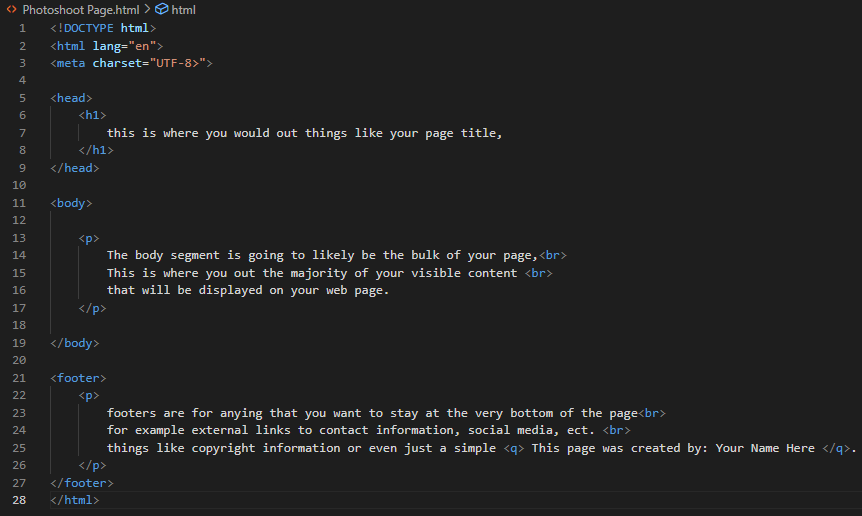
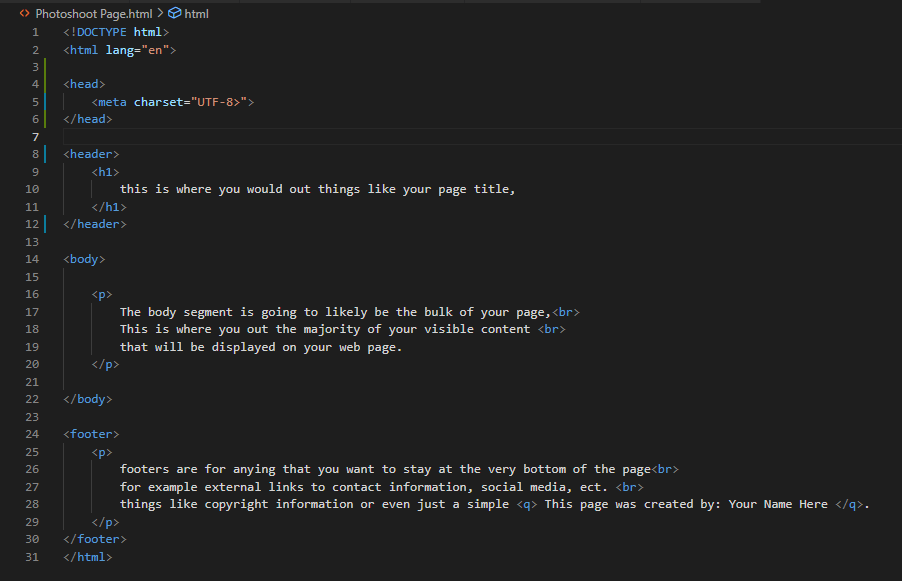
2-15-2022, page adds
added in HTML_Basics_2.html to begin developing that page, made more progress on the tag list, and replaced a screenshot image in Basics.html to reflect correct page layout.

Changed region(s): [[0.0, 0.0, 0.9954, 0.9922], [0.6334, 0.4651, 0.6636, 0.4961]]

diff --git a/taglist.html b/taglist.html
@@ -72,10 +72,21 @@
                     &lt;a&gt;
                 </td>
                 <td>
-                    Defines a hyperlink, ex. &lt;a href="www.google.com"&gt;
+                    Defines a hyperlink, ex. &lt;a href="www.google.com"&gt; 
+                    <br>
+                    This tag is most often used in conjuntion with the &lt;href=""&gt; tag.
                 </td>
                 <td>
                     <a href="www.google.com">Google</a>
+                    <br>
+                    <p>Note: by default a hyperlink will open in the tab you are currently in unless you add target="blank" after href="". adding a blank target will cause the hyperlink to open in a new tab.</p>
+                    <p>For general security reasons it is best to add rel="noopener noreferrer" if your going to have a blank target. The sytax for a hyperlink that openes in a new tab or window (in this example I am using www.google.com as the page the hyperlink will open) is as follows: </p>
+                    <p>
+                        &lt;a href="www.google.com" target="blank" rel="noopener noreferrer"&gt; 
+                        <br>
+                        <br>
+                        for more information on why you should do this chek out this artice <a href="https://www.jitbit.com/alexblog/256-targetblank---the-most-underestimated-vulnerability-ever/" target="blank" rel="noopener norferrer">here.</a> There will also be a reference page asigned to this topic in the future. 
+                    </p>
                 </td>
             </tr>
 
@@ -428,6 +439,255 @@
                     <dfn>Oak</dfn> has many sub species, some are used for <dfn>cooperage</dfn> while others are more suitable to general bulding materials. 
                 </td>
             </tr>
+
+            <tr>
+                <td>
+                    &lt;dialog&gt;
+                </td>
+                <td>
+                    creates a dialog box
+                </td>
+                <td>
+                    <p>
+                        blah blah blah
+                    </p>
+                    <p>
+                           <dialog open>this is an open dialog window <br> Why it does not stay within the confines of a table cell IDK. <br> this sort of effect can be acheived with better results using CSS</dialog>
+                        i am at a loss for creative words right now
+                    </p>
+                    <p>
+                        some more random words.
+                    </p>
+                 
+                </td>
+            </tr>
+
+            <tr>
+                <td>
+                    &lt;div&gt;
+                </td>
+                <td>
+                    defines a section of a document. 
+                </td>
+                <td>
+                    the &lt;div&gt; element is mostly just used mostly to define sections of a page that dont fall intp the category of head, body, or foot.
+                    you can technically replace head, body and foot with &lt;div&gt; elements but thats sloppy and not recomended. 
+                </td>
+            </tr>
+        <tr>
+            <td>
+                &lt;dl&gt;
+            </td>
+            <td>
+                defines a decription list, it is used inconjunction with dd and dt. &lt;dl&gt; defines that there is a description list, &lt;dt&gt; defines the lements of that list, and &lt;dd&gt; defines the value of those elements in the list. 
+            </td>
+            <td>
+                <dl>
+                    <dt>item 1</dt>
+                    <dt>item 2</dt>
+                    <dt>item 4</dt>
+                </dl>
+            </td>
+        </tr>
+
+        <tr>
+            <td>
+                &lt;dt&gt;
+            </td>
+            <td>
+                defines a term/name in a description list, 
+            </td>
+            <td>
+                see above example under the dl&gt; tag.
+            </td>
+        </tr>
+
+        <tr>
+            <td>
+                &lt;em&gt; 
+            </td>
+            <td>
+                Empasizes text
+            </td>
+            <td>
+                <em> this text in emphasized.</em>
+            </td>
+        </tr>
+
+        <tr>
+            <td>
+                &lt;embed&gl;
+            </td>
+            <td>
+                defines a container for an external embeded application
+            </td>
+            <td>
+                i dont havre an example for this one yet. Check out the link on W3 Schools for more information
+            </td>
+        </tr>
+        
+        <tr>
+            <td>
+                &lt;fieldset&gt;
+            </td>
+            <td>
+                goups related elements in a form
+            </td>
+            <td>
+                <blockquote cite="https://www.w3schools.com/TAGS/tryit.asp?filename=tryhtml_fieldset">
+
+                    <form action="/action_page.php">
+                        <fieldset>
+                            <legend>Personalia:</legend>
+                            <label for="fname">First name:</label>
+                                <input type="text" id="fname" name="fname">
+                                <br><br>
+                            <label for="lname">Last name:</label>
+                                <input type="text" id="lname" name="lname">
+                                <br><br>
+                            <label for="email">Email:</label>
+                                <input type="email" id="email" name="email">
+                                <br><br>
+                            <label for="birthday">Birthday:</label>
+                                <input type="date" id="birthday" name="birthday">
+                                <br><br>
+                            <input type="submit" value="Submit">
+                        </fieldset>
+                    </form>
+
+                </blockquote>
+            </td>
+        </tr>
+
+        <tr>
+            <td>
+                &lt;figcaption&gt; 
+            </td>
+            <td>
+                defines a caption for a figure element.
+            </td>
+            <td>
+                <figure>
+                    <img src="Bunny_1.png" width="50px" height="50px">
+                    <figcaption>Fig. 1 - A "bunny" or rabbit, drawing</figcaption>
+                </figure>
+                view page source for more detailed info. 
+            </td>
+        </tr>
+
+        <tr>
+            <td>
+                &lt;figure&gt;
+            </td>
+            <td>
+                specifies self cintained cintent. typically used for images and examples
+            </td>
+            <td>
+                view page source for &lt;figcaption&gt; for an example
+            </td>
+        </tr>
+
+        <tr>
+            <td>
+                &lt;footer&gt; 
+            </td>
+            <td>
+                Defines the foot of a document or section. Typically this section is used to place infomation that is intended to stay at the bottom of the page. 
+            </td>
+            <td>
+                view page source and scroll all the way to the bottom, thats where the footer is. 
+            </td>
+        </tr>
+
+        <tr>
+            <td>
+                &lt;form&gt;
+            </td>
+            <td>
+                Defines an HTML form for users to input data. 
+            </td>
+            <td>
+                <form action=""> <!--note that action is left blank here. Normally this is where you place the information for either an external php server or any other destination for where the information collected will go to be processed.-->
+                    <label for="fname">First Name</label>
+                        <input type="text" id="fname">
+                        <br><br>
+                    <label for="lname">Last Name</label>
+                        <input type="text" id="lname">
+                        <br><br>
+                    <label for="fcolor">Favorite Color</label>
+                        <input type="text" id="fcolor">
+                        <br><br>
+                        <input type="submit" value="submit">
+                </form>
+                <br>
+                see also the &lt;fieldset&gt; tag for another example of how these types of inputs work. 
+            </td>
+        </tr>
+
+        <tr>
+            <td>
+                &lt;h1&gt;<br>
+                &lt;h2&gt;<br>
+                &lt;h3&gt;<br>
+                &lt;h4&gt;<br>
+                &lt;h5&gt;<br>
+                &lt;h6&gt; 
+            </td>
+            <td>
+                Header Tags, these are used for formatting headline/headers in your HTML document. This is one of those things that search engines will look at for key words.
+                Each tag has a different level of sognificance assigned to it, with &lt;h1&gt; being the most significant and &lt;h6&gt; being the least significant. 
+            </td>
+            <td>
+                <p>Styntax and default formatting examples of &lt;h1&gt; through &lt;h6&gt;</p>
+                <h1>This is Header 1</h1>
+                <h2>This is Header 2</h2>
+                <h3>This is header 3</h3>
+                <h4>This is Header 4</h4>
+                <h5>This is Header 5</h5>
+                <h6>This is header 6</h6>
+            </td>
+        </tr>
+
+        <tr>
+            <td>
+                &lt;head&gt;
+            </td>
+            <td>
+                The &lt;head&gt; tag is not to be confused with the &lt;header&gt; tag, they both serve a different purpose. &lt;head&gt; tags are used to define the head of an HTML document, this is where metadata and other information such as links to external css and JS pages that apply to the entire document can be found.
+                <br>
+                <i>Note: Each HTML document only has one &lt;head&gt; section. </i>
+            </td>
+            <td>
+                For an example of this tags syntax and use view the page source and look at the very top of the page. This item is also explained in more detail in the <a href="Basics.html" target="blank" rel="noopener noreferrer">HTML Basics</a> page.
+            </td>
+        </tr>
+
+        <tr>
+            <td>
+                &lt;header&gt;
+            </td>
+            <td>
+                The &lt;header&gt; tag is used to define the Header for a document or section. Unlike the &lt;head&gt; tag, you can have multiple headers, just like you can have multiple bodies and footers. 
+            </td>
+            <td>
+                This will be desplayed in more detail in the <a href="HTML_Basics_2.html" target="blank" rel="noopener noreferrer">HTML Basics 2</a> Page.
+            </td>
+        </tr>
+
+        <tr>
+            <td>
+                &lt;hr&gt;
+            </td>
+            <td>
+                Creates a horizontal Rule or line across the width of the page.
+            </td>
+            <td>
+                <p>this one does work inside of table cells but is normally used to add a defining line between sections of a page, for example i tend to use it to differentiate the header from the body. </p>
+                <hr>
+                <br>
+            </td>
+        </tr>
+
 
         </table> 
 

diff --git a/HTML_Basics_2.html b/HTML_Basics_2.html
@@ -1,0 +1,25 @@
+<!DOCTYPE html>
+<html lang="en">
+
+<head>
+    <meta charset="UTF-8">
+    <!--link deticated css sheet-->
+</head>
+
+<header>
+
+</header>
+
+<body> <!--exaplin in more detail about the differences between head and header, how to set up multiple sections/segments of a page, go over symantics and keeping the code clean, ect.-->
+
+</body>
+
+<footer>
+   <address>
+       Page Created By <a href="" target="blank" rel="noopener noreferrer">Vincent Teune</a> 
+       <br>
+       Last Updated: February 2022
+   </address>
+</footer>
+
+</html>

diff --git a/Photoshoot Page.html b/Photoshoot Page.html
@@ -1,12 +1,15 @@
 <!DOCTYPE html>
 <html lang="en">
-<meta charset="UTF-8>">
 
 <head>
+    <meta charset="UTF-8>">
+</head>
+
+<header>
     <h1>
         this is where you would out things like your page title,
     </h1>
-</head>
+</header>
 
 <body>
 
